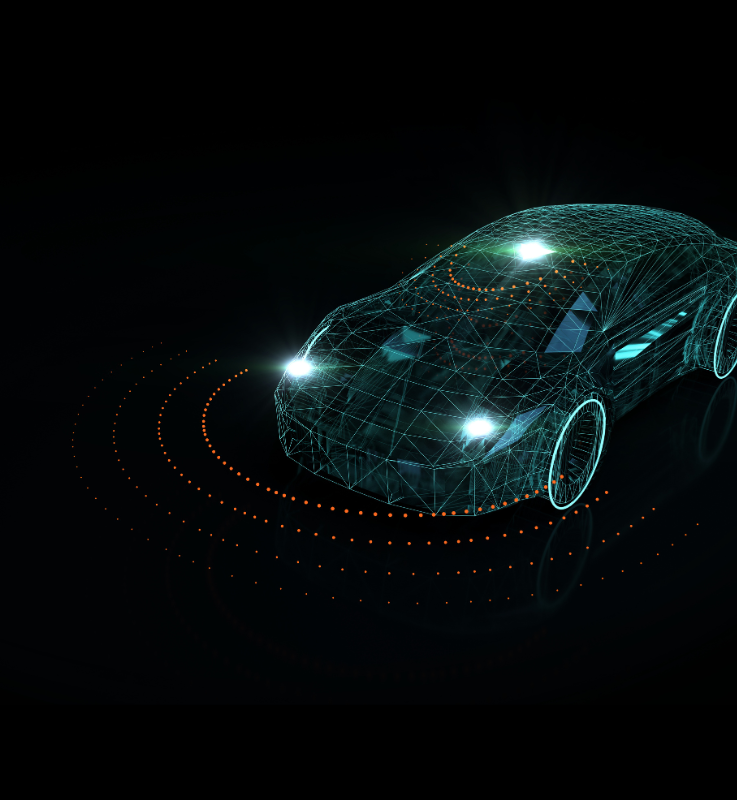
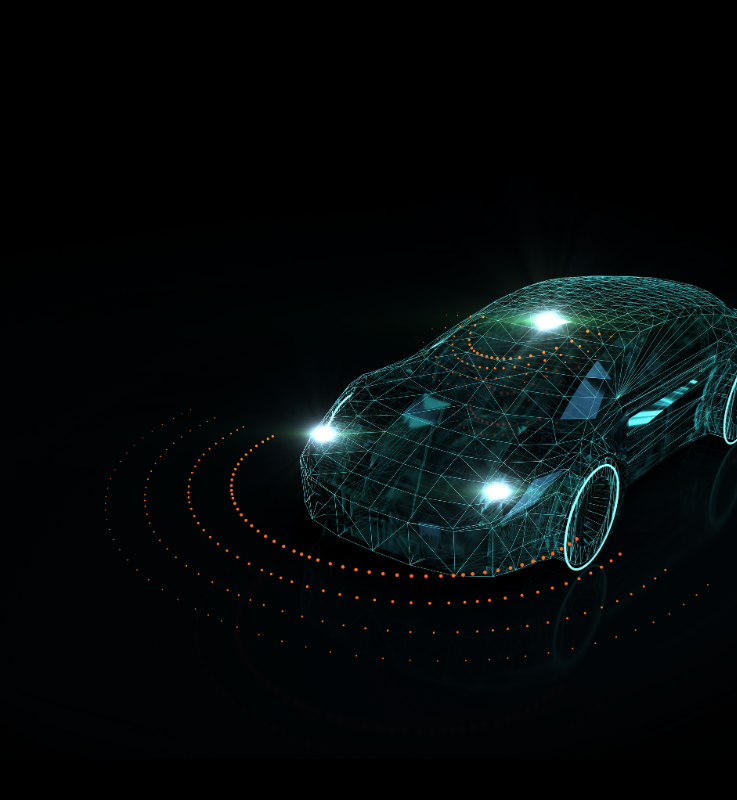
feat: implement dynamic interactive hero section with accordion panels and touch support

Changed region(s): [[0.3121, 0.25, 1.0, 0.7188], [0.3121, 0.5625, 0.3433, 0.6562]]

diff --git a/src/components/Hero.jsx b/src/components/Hero.jsx
@@ -150,16 +150,16 @@ export default function Hero() {
                   <h3 className="text-sm sm:text-lg md:text-2.5xl lg:text-4xl font-bold leading-tight font-sans tracking-tight text-left text-white mb-1 sm:mb-4 drop-shadow-[0_4px_12px_rgba(0,0,0,0.95)]">
                     Serving across all sectors
                   </h3>
-                  <div className="grid grid-cols-2 gap-x-3 gap-y-0.5 sm:block sm:space-y-1 font-normal font-sans text-[#c084fc] text-[10px] sm:text-lg md:text-xl lg:text-[22px] tracking-tight leading-snug sm:leading-normal text-left drop-shadow-[0_4px_12px_rgba(0,0,0,0.95)]">
+                  <div className="grid grid-flow-col grid-rows-5 gap-x-3 gap-y-0.5 sm:block sm:space-y-1 font-normal font-sans text-[#c084fc] text-[10px] sm:text-lg md:text-xl lg:text-[22px] tracking-tight leading-snug sm:leading-normal text-left drop-shadow-[0_4px_12px_rgba(0,0,0,0.95)]">
                     <div>✓ Food</div>
-                    <div>✓ Plastic</div>
                     <div>✓ Electronics</div>
-                    <div>✓ Rubber</div>
                     <div>✓ Machinery</div>
-                    <div>✓ Packaging</div>
                     <div>✓ Metals</div>
-                    <div>etc.</div>
                     <div>✓ Appliances</div>
+                    <div>✓ Plastic</div>
+                    <div>✓ Rubber</div>
+                    <div>✓ Packaging</div>
+                    <div className="pl-[1.1em]">etc.</div>
                   </div>
                 </div>
               )}
